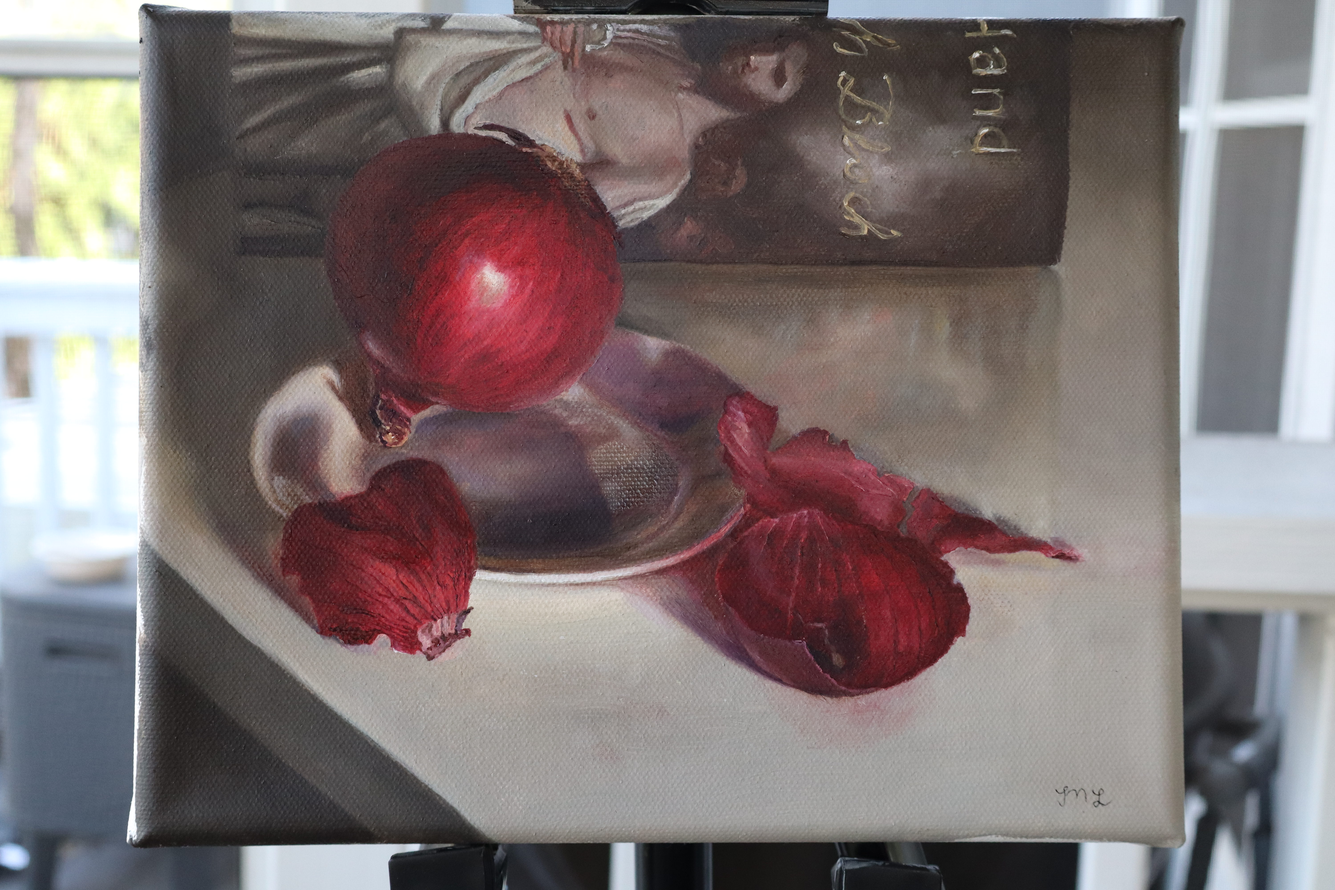
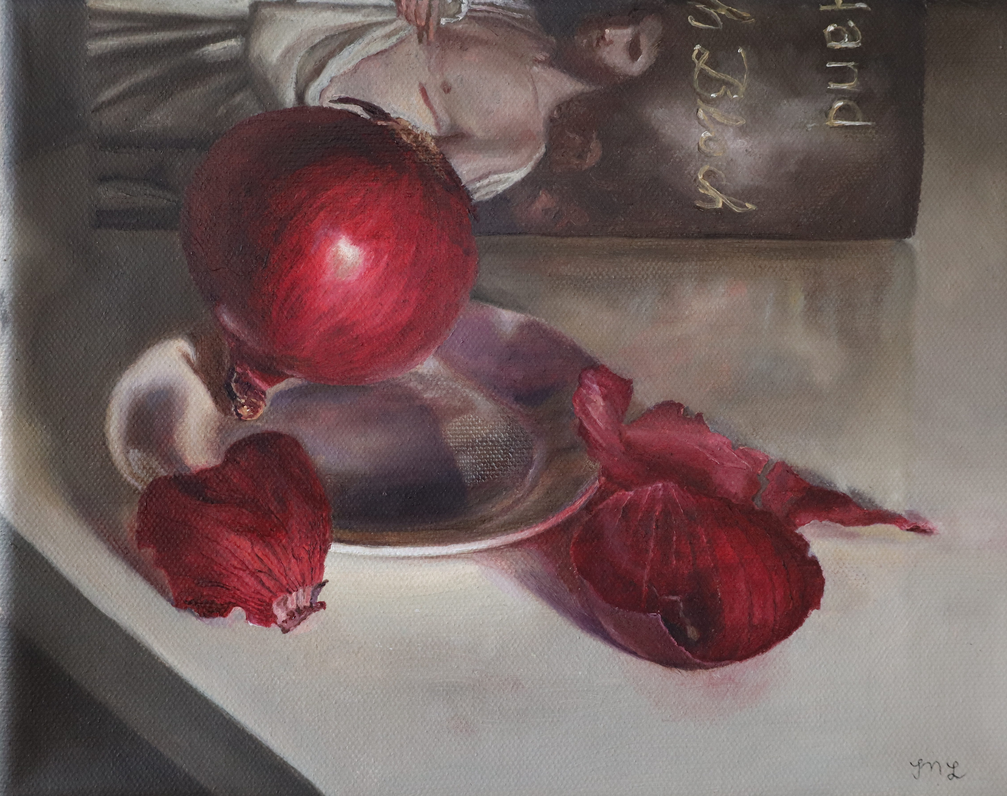
Re-crop existing paintings and add 5 new works to gallery
Re-converted 7 existing paintings straight from RAW with tighter,
background-free crops (also fixes sideways orientation on Cantaloupe
and a Feather, and God of the Universe). Adds 5 new paintings:
Blueberries in Terracotta, Citrus and Blue Linen, Potatoes in Foil,
Lemons on a Striped Towel, and What the Tide Left Behind.

Claude-Session: https://claude.ai/code/session_01GkEZMmX4dGSusxfBfrpv6o

diff --git a/src/data/paintings.js b/src/data/paintings.js
@@ -98,4 +98,59 @@ export const paintings = [
     exhibition: null,
     description: null,
   },
+  {
+    slug: 'blueberries-in-terracotta',
+    title: 'Blueberries in Terracotta',
+    src: '/images/IMG_0017.jpg',
+    medium: 'Oil on canvas',
+    year: null,
+    dimensions: null,
+    availability: 'Available',
+    exhibition: null,
+    description: 'A handled dish, half full of blueberries, set down on rumpled white linen — nothing arranged, nothing fussed over.',
+  },
+  {
+    slug: 'citrus-and-blue-linen',
+    title: 'Citrus and Blue Linen',
+    src: '/images/IMG_0020.jpg',
+    medium: 'Oil on canvas',
+    year: null,
+    dimensions: null,
+    availability: 'Available',
+    exhibition: null,
+    description: 'An orange, a lemon, a lime, still holding the shape of the cutting board beneath them — the blue towel doing all the work of drama.',
+  },
+  {
+    slug: 'potatoes-in-foil',
+    title: 'Potatoes in Foil',
+    src: '/images/IMG_0025.jpg',
+    medium: 'Oil on canvas',
+    year: null,
+    dimensions: null,
+    availability: 'Available',
+    exhibition: null,
+    description: 'Three potatoes on a torn sheet of foil — proof that the unglamorous still deserves good light.',
+  },
+  {
+    slug: 'lemons-on-a-striped-towel',
+    title: 'Lemons on a Striped Towel',
+    src: '/images/IMG_0030.jpg',
+    medium: 'Oil on canvas',
+    year: null,
+    dimensions: null,
+    availability: 'Available',
+    exhibition: null,
+    description: 'Two lemons split open on a striped towel, sour and bright, caught before anyone thought to use them.',
+  },
+  {
+    slug: 'what-the-tide-left-behind',
+    title: 'What the Tide Left Behind',
+    src: '/images/IMG_0032.jpg',
+    medium: 'Oil on canvas',
+    year: null,
+    dimensions: null,
+    availability: 'Available',
+    exhibition: null,
+    description: 'A conch shell and a strand of pearls, laid side by side on coral silk — two different things the sea decided to keep.',
+  },
 ];
